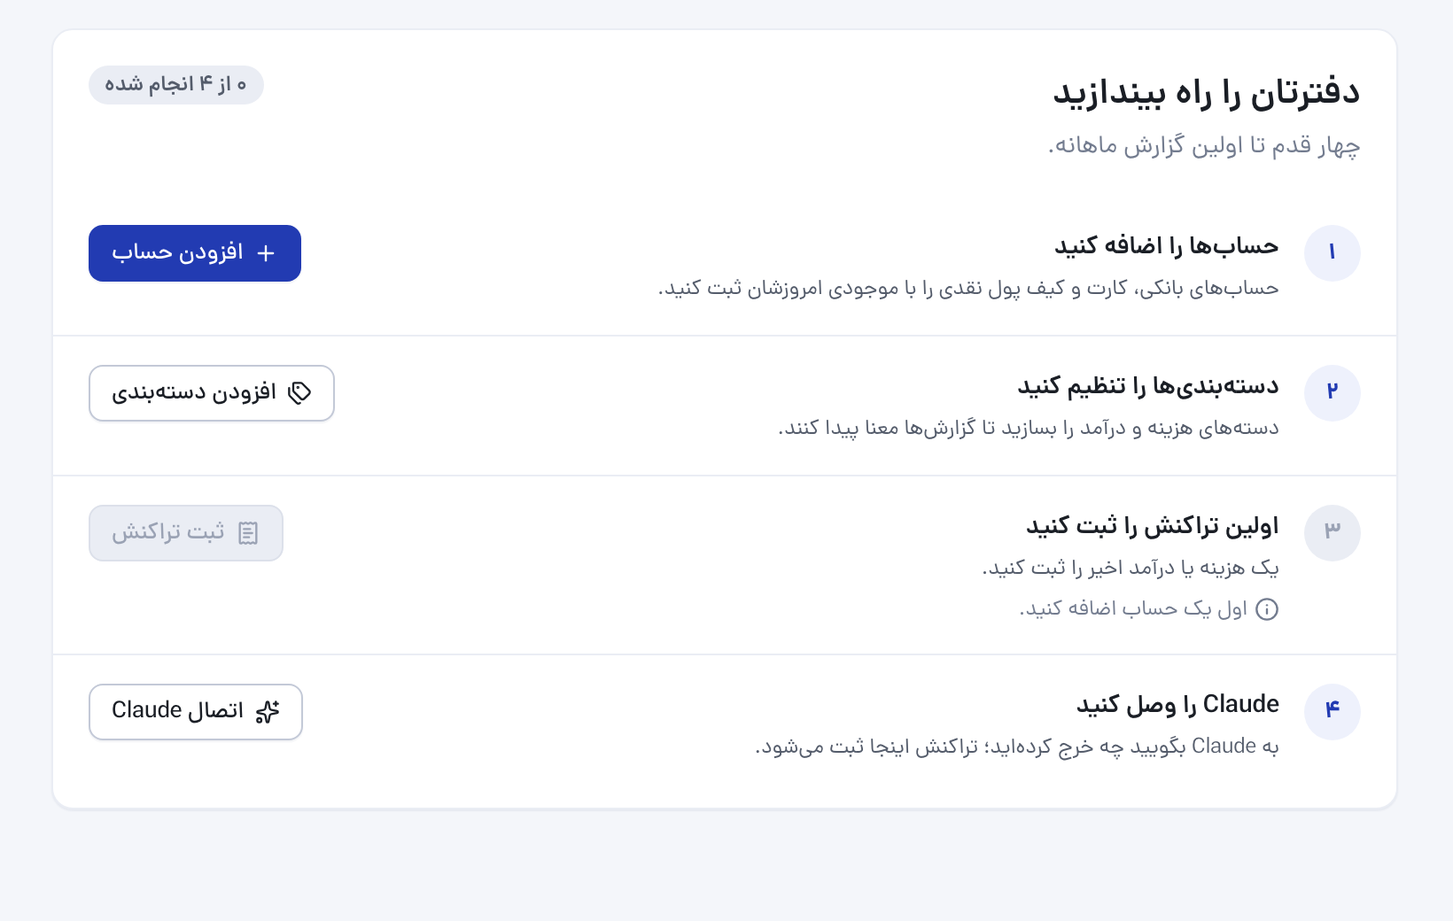
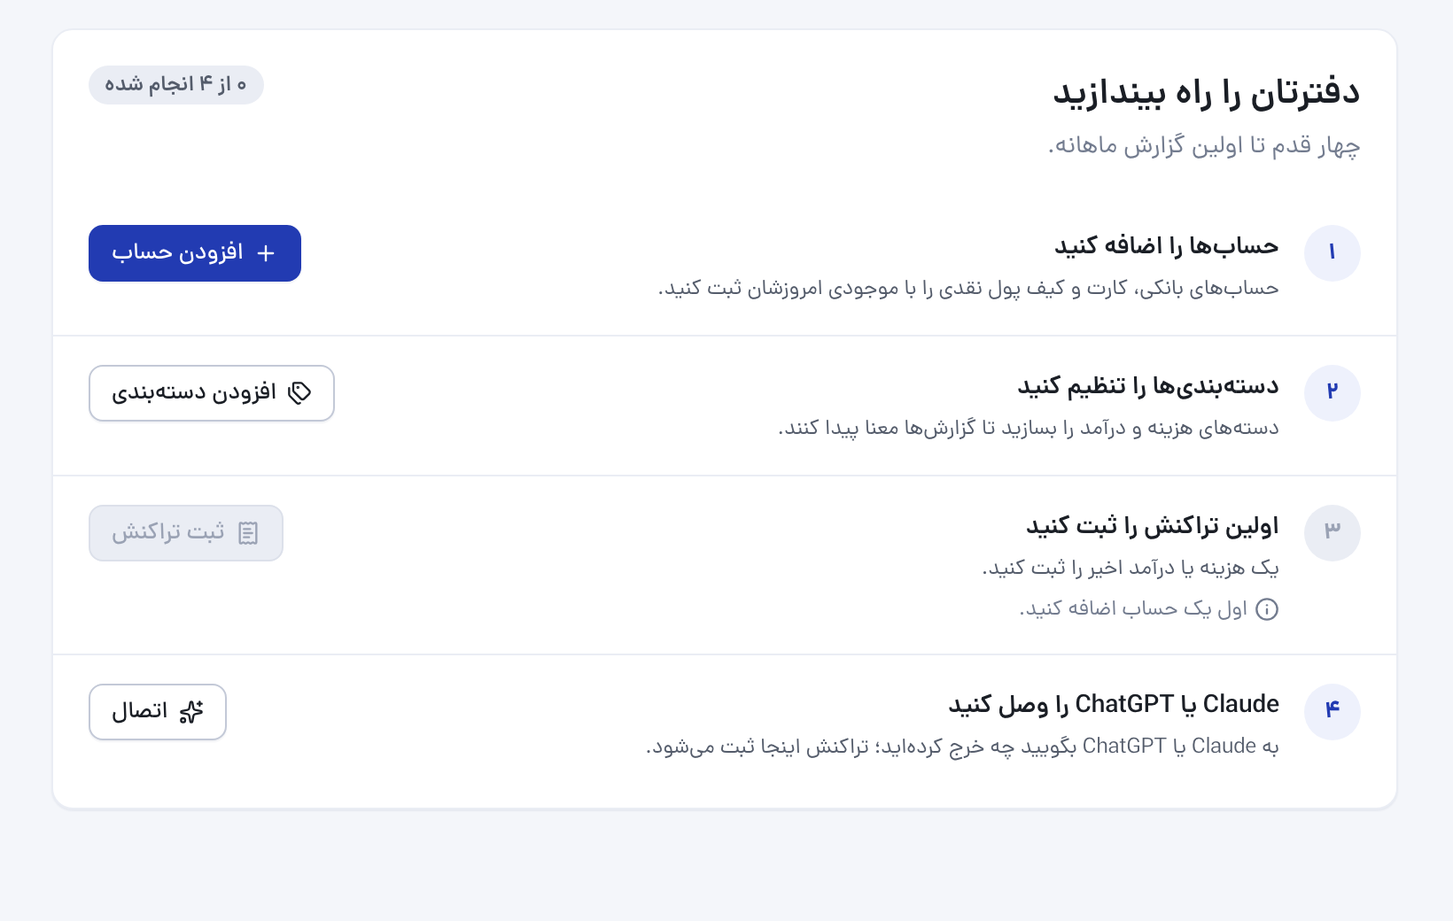
fix: name both Claude and ChatGPT in the connector copy
The Settings section that leads to the connector is now «دستیار هوش
مصنوعی» / "AI assistants" (settings.claude → settings.assistants). The
first-run step, the connector page's role line and examples title, the
consent page and the password texts name both assistants or the
connecting app, and the consent footer points at the page's real title.
User guide text and screenshots are updated.

Closes #136

Changed region(s): [[0.4354, 0.7385, 0.8085, 0.8308], [0.0622, 0.7385, 0.1866, 0.8]]

diff --git a/src/messages/fa.ts b/src/messages/fa.ts
@@ -271,11 +271,11 @@ const fa = {
           action: "ثبت تراکنش",
           needsAccount: "اول یک حساب اضافه کنید.",
         },
-        claude: {
-          title: "Claude را وصل کنید",
+        assistant: {
+          title: "Claude یا ChatGPT را وصل کنید",
           description:
-            "به Claude بگویید چه خرج کردهاید؛ تراکنش اینجا ثبت میشود.",
-          action: "اتصال Claude",
+            "به Claude یا ChatGPT بگویید چه خرج کردهاید؛ تراکنش اینجا ثبت میشود.",
+          action: "اتصال",
         },
       },
     },
@@ -779,7 +779,7 @@ const fa = {
     reset: {
       title: "بازنشانی رمز عبور؟",
       description:
-        "رمز فعلی {name} دیگر کار نمیکند، از همه دستگاهها خارج میشود، دسترسی برنامههای متصل مثل Claude به حسابش قطع میشود و یک رمز موقت تازه ساخته میشود.",
+        "رمز فعلی {name} دیگر کار نمیکند، از همه دستگاهها خارج میشود، دسترسی برنامههای متصل مثل Claude و ChatGPT به حسابش قطع میشود و یک رمز موقت تازه ساخته میشود.",
       submit: "بازنشانی رمز",
       shownTitle: "رمز موقت تازه",
       shownDescription: "این رمز را کپی کنید و به {name} بدهید.",
@@ -1034,11 +1034,11 @@ const fa = {
         "نشانی بالا را در Claude یا ChatGPT اضافه کنید تا اینجا نمایش داده شود.",
       role: {
         viewer:
-          "Claude با نقش شما (بیننده) کار میکند: فقط میتواند تراکنشها را بخواند.",
+          "دستیار با نقش شما (بیننده) کار میکند: فقط میتواند تراکنشها را بخواند.",
         editor:
-          "Claude با نقش شما (ویرایشگر) کار میکند: تراکنشها را میخواند، ثبت و ویرایش میکند و فقط وقتی بخواهید حذف میکند.",
+          "دستیار با نقش شما (ویرایشگر) کار میکند: تراکنشها را میخواند، ثبت و ویرایش میکند و فقط وقتی بخواهید حذف میکند.",
         admin:
-          "Claude با نقش شما (مدیر) کار میکند: تراکنشها را میخواند، ثبت و ویرایش میکند و فقط وقتی بخواهید حذف میکند.",
+          "دستیار با نقش شما (مدیر) کار میکند: تراکنشها را میخواند، ثبت و ویرایش میکند و فقط وقتی بخواهید حذف میکند.",
       },
     },
     revoke: {
@@ -1049,7 +1049,7 @@ const fa = {
       failed: "دسترسی قطع نشد. اتصال اینترنت را بررسی کنید و دوباره تلاش کنید.",
     },
     examples: {
-      title: "به Claude بگویید",
+      title: "به دستیار بگویید",
       subtitle: "چند نمونه برای شروع. به زبان خودتان بنویسید.",
       record: "ثبت",
       ask: "پرسیدن",
@@ -1072,16 +1072,16 @@ const fa = {
       read: "خواندن تراکنشها",
       readDescription: "برای پاسخ به پرسشهایی مثل «این ماه چقدر خرج کردم؟»",
       write: "ثبت و ویرایش تراکنشها",
-      writeDescription: "هر چه ثبت کند با نشان Claude در فهرست دیده میشود.",
+      writeDescription: "هر چه ثبت کند با نشان {client} در فهرست دیده میشود.",
       delete: "حذف تراکنش، وقتی خودتان بخواهید",
-      deleteDescription: "Claude بدون درخواست شما چیزی حذف نمیکند.",
+      deleteDescription: "{client} بدون درخواست شما چیزی حذف نمیکند.",
       viewerNote:
         "نقش شما «بیننده» است؛ {client} نمیتواند تراکنشی ثبت، ویرایش یا حذف کند.",
       redirect: "پس از پاسخ، به {host} برمیگردید.",
       deny: "رد کردن",
       allow: "اجازه دادن",
       footNote:
-        "هر وقت بخواهید، از تنظیمات ‹ اتصال به Claude دسترسی را قطع کنید.",
+        "هر وقت بخواهید، از تنظیمات ‹ اتصال به Claude و ChatGPT دسترسی را قطع کنید.",
       doneTitle: "دسترسی داده شد",
       doneDescription:
         "در حال بازگشت به {client}… اگر این پنجره بسته نشد، خودتان ببندید.",
@@ -1093,7 +1093,7 @@ const fa = {
         "پاسخ شما ثبت نشد. اتصال اینترنت را بررسی کنید و دوباره تلاش کنید.",
       invalidTitle: "این درخواست دیگر معتبر نیست",
       invalidDescription:
-        "درخواست اتصال منقضی شده یا ناقص است. از Claude دوباره «Connect» را بزنید.",
+        "درخواست اتصال منقضی شده یا ناقص است. از Claude یا ChatGPT دوباره وصل شوید.",
     },
   },
   importExport: {
@@ -1365,7 +1365,7 @@ const fa = {
     password: {
       title: "تغییر رمز عبور",
       subtitle:
-        "پس از تغییر، در دستگاههای دیگر دوباره وارد شوید و برنامههایی مثل Claude را دوباره متصل کنید.",
+        "پس از تغییر، در دستگاههای دیگر دوباره وارد شوید و برنامههایی مثل Claude و ChatGPT را دوباره متصل کنید.",
       current: "رمز فعلی",
       currentMissing: "رمز فعلی را وارد کنید.",
       currentWrong: "رمز فعلی درست نیست.",
@@ -1391,8 +1391,8 @@ const fa = {
       title: "دادههای دفتر",
       importExport: "دریافت تراکنشها در قالب CSV و افزودن از فایل",
     },
-    claude: {
-      title: "Claude",
+    assistants: {
+      title: "دستیار هوش مصنوعی",
       connector: "ثبت تراکنش و پرسش دربارهٔ خرجها با گفتوگو",
     },
     book: {

diff --git a/src/messages/en.ts b/src/messages/en.ts
@@ -277,10 +277,11 @@ const en: Messages = {
           action: "Add transaction",
           needsAccount: "Add an account first.",
         },
-        claude: {
-          title: "Connect Claude",
-          description: "Tell Claude what you spent and it’s recorded here.",
-          action: "Connect Claude",
+        assistant: {
+          title: "Connect Claude or ChatGPT",
+          description:
+            "Tell Claude or ChatGPT what you spent and it’s recorded here.",
+          action: "Connect",
         },
       },
     },
@@ -787,7 +788,7 @@ const en: Messages = {
     reset: {
       title: "Reset password?",
       description:
-        "{name}’s current password will stop working, they’ll be signed out everywhere, connected apps such as Claude will lose access to their account, and a new temporary password will be created.",
+        "{name}’s current password will stop working, they’ll be signed out everywhere, connected apps such as Claude or ChatGPT will lose access to their account, and a new temporary password will be created.",
       submit: "Reset password",
       shownTitle: "New temporary password",
       shownDescription: "Copy it and give it to {name}.",
@@ -1041,11 +1042,11 @@ const en: Messages = {
         "Add the URL above in Claude or ChatGPT and it will show up here.",
       role: {
         viewer:
-          "Claude works with your role (Viewer): it can only read transactions.",
+          "The assistant works with your role (Viewer): it can only read transactions.",
         editor:
-          "Claude works with your role (Editor): it reads, adds and edits transactions, and deletes only when you ask.",
+          "The assistant works with your role (Editor): it reads, adds and edits transactions, and deletes only when you ask.",
         admin:
-          "Claude works with your role (Admin): it reads, adds and edits transactions, and deletes only when you ask.",
+          "The assistant works with your role (Admin): it reads, adds and edits transactions, and deletes only when you ask.",
       },
     },
     revoke: {
@@ -1057,7 +1058,7 @@ const en: Messages = {
         "Couldn’t revoke access. Check your internet connection and try again.",
     },
     examples: {
-      title: "Things to say to Claude",
+      title: "Things to say",
       subtitle: "A few ideas to start. Write it your own way.",
       record: "Record",
       ask: "Ask",
@@ -1082,16 +1083,17 @@ const en: Messages = {
         "To answer questions like “How much did I spend this month?”",
       write: "Add and edit transactions",
       writeDescription:
-        "Everything it records shows a Claude badge in your lists.",
+        "Everything it records shows a {client} badge in your lists.",
       delete: "Delete transactions when you ask",
-      deleteDescription: "Claude never deletes anything without your request.",
+      deleteDescription:
+        "{client} never deletes anything without your request.",
       viewerNote:
         "Your role is Viewer, so {client} can’t add, edit or delete transactions.",
       redirect: "After you answer, you’ll return to {host}.",
       deny: "Deny",
       allow: "Allow",
       footNote:
-        "You can revoke access anytime in Settings › Connect to Claude.",
+        "You can revoke access anytime in Settings › Connect Claude and ChatGPT.",
       doneTitle: "Access allowed",
       doneDescription:
         "Returning to {client}… If this window doesn’t close, you can close it.",
@@ -1103,7 +1105,7 @@ const en: Messages = {
         "Your answer wasn’t saved. Check your internet connection and try again.",
       invalidTitle: "This request is no longer valid",
       invalidDescription:
-        "The connection request expired or is incomplete. Click “Connect” in Claude again.",
+        "The connection request expired or is incomplete. Connect again from Claude or ChatGPT.",
     },
   },
   importExport: {
@@ -1382,7 +1384,7 @@ const en: Messages = {
     password: {
       title: "Change password",
       subtitle:
-        "After changing it, sign in again on your other devices and connect apps such as Claude again.",
+        "After changing it, sign in again on your other devices and connect apps such as Claude or ChatGPT again.",
       current: "Current password",
       currentMissing: "Enter your current password.",
       currentWrong: "The current password is incorrect.",
@@ -1408,8 +1410,8 @@ const en: Messages = {
       title: "Book data",
       importExport: "Download transactions as CSV, or add them from a file",
     },
-    claude: {
-      title: "Claude",
+    assistants: {
+      title: "AI assistants",
       connector: "Record transactions and ask about spending by chatting",
     },
     book: {

diff --git a/src/components/settings-links/index.tsx b/src/components/settings-links/index.tsx
@@ -17,11 +17,11 @@ type SettingsLink = {
   icon: LucideIcon;
   /** Message keys of the link's title and description. */
   title: "importExport.title" | "connector.title";
-  description: "settings.data.importExport" | "settings.claude.connector";
+  description: "settings.data.importExport" | "settings.assistants.connector";
 };
 
 const SECTIONS: {
-  title: "settings.data.title" | "settings.claude.title";
+  title: "settings.data.title" | "settings.assistants.title";
   links: SettingsLink[];
 }[] = [
   {
@@ -36,20 +36,20 @@ const SECTIONS: {
     ],
   },
   {
-    title: "settings.claude.title",
+    title: "settings.assistants.title",
     links: [
       {
         href: "/settings/connector",
         icon: SparklesIcon,
         title: "connector.title",
-        description: "settings.claude.connector",
+        description: "settings.assistants.connector",
       },
     ],
   },
 ];
 
 /**
- * The /settings sections that lead to subpages: CSV import and export, and the Claude connector.
+ * The /settings sections that lead to subpages: CSV import and export, and the Claude and ChatGPT connector.
  */
 export function SettingsLinks() {
   const t = useTranslations();

diff --git a/src/components/first-run/index.tsx b/src/components/first-run/index.tsx
@@ -31,7 +31,7 @@ type FirstRunProps = {
   className?: string;
 };
 
-type StepKey = "accounts" | "categories" | "transaction" | "claude";
+type StepKey = "accounts" | "categories" | "transaction" | "assistant";
 
 type Step = {
   key: StepKey;
@@ -45,7 +45,7 @@ type Step = {
 
 /**
  * The dashboard of a book without accounts or transactions. Editors and admins get four
- * steps (accounts, categories, a first transaction, connecting Claude), each marked done once
+ * steps (accounts, categories, a first transaction, connecting Claude or ChatGPT), each marked done once
  * the book has it; the next open step is the primary button. Viewers can't set anything up,
  * so they get a note that the summary appears once someone records something.
  */
@@ -87,7 +87,7 @@ export function FirstRun({ canWrite, progress, className }: FirstRunProps) {
       blocked: !progress.hasAccounts,
     },
     {
-      key: "claude",
+      key: "assistant",
       done: progress.connectedClaude,
       icon: SparklesIcon,
       href: "/settings/connector",

diff --git a/src/components/connector-consent/index.tsx b/src/components/connector-consent/index.tsx
@@ -211,7 +211,7 @@ export function ConnectorConsent({
                     {t(`connector.consent.${key}`)}
                   </span>
                   <span className={styles.itemDescription}>
-                    {t(`connector.consent.${key}Description`)}
+                    {t(`connector.consent.${key}Description`, { client })}
                   </span>
                 </span>
               </li>

diff --git a/docs/development/features/dashboard.md b/docs/development/features/dashboard.md
@@ -26,7 +26,7 @@ The dashboard (`/`) is the home page: account balances, this month's totals, rec
 
 `/` (page in `src/app/(app)/(dashboard)/page.tsx`, in its own route group so its `loading.tsx` (`DashboardSkeleton`) covers only the dashboard; layout `Dashboard` in `src/components/dashboard`). Every role reads; the header greets by first name («سلام، سارا», `firstName` in `src/utils/text.ts`) with today's date, and writers get «افزودن تراکنش».
 
-- **First run:** the page first reads `getBookProgress(userId)` (`src/db/dashboard.ts`: whether the book has accounts, categories and transactions and whether this user has connected Claude, one statement). Until the book has accounts and transactions it shows `FirstRun` instead («خوش آمدید، …»): editors and admins get four steps (accounts → `/accounts`, categories → `/categories`, a first transaction through the add form, blocked until there is an account, Claude → `/settings/connector`), each marked done from the progress, the next open one primary; viewers get a short note.
+- **First run:** the page first reads `getBookProgress(userId)` (`src/db/dashboard.ts`: whether the book has accounts, categories and transactions and whether this user has connected Claude, one statement). Until the book has accounts and transactions it shows `FirstRun` instead («خوش آمدید، …»): editors and admins get four steps (accounts → `/accounts`, categories → `/categories`, a first transaction through the add form, blocked until there is an account, Claude or ChatGPT → `/settings/connector`), each marked done from the progress, the next open one primary; viewers get a short note.
 - **Sections stream:** after that every section is an async Server Component in the page file with its own `<Suspense>` and skeleton (`…Skeleton` from each component), so the queries run in parallel and a slow one holds up only its card. «This month» is the viewer's current month (`resolveBudgetMonth(null, …)`, a Gregorian range).
   - `UnknownNotice`: «۳ تراکنش ناشناس دارید» when the book has unknown transactions (`unknownTransactionSummary`: count and oldest date), linking to `/transactions?from=<oldest>&unknown=1` (`unknownTransactionsHref`). No fallback: it appears when it has something to say. It has a close button: closing saves what the notice said (`unknownNoticeKey`: the count and the newest unknown transaction's `created_at`) in the `money-unknown-closed` cookie on that device (`UNKNOWN_NOTICE_COOKIE`), and the server leaves the notice out while the cookie matches, so it never flashes; a new unknown transaction changes the key and the notice returns.
   - `BalanceOverview`: the royal card (the screen's one brand card) with the total of the active accounts and a tile per account (`listAccounts`), scrolling sideways, edge to edge on phones.

diff --git a/docs/development/architecture.md b/docs/development/architecture.md
@@ -170,7 +170,7 @@ Code is organised by what it does, and each layer only calls the ones below it:
 | `/settings`                                                                                     | Settings (تنظیمات): profile, password, language, calendar, rial or toman, theme; book currency (admins) |
 | `/accounts`                                                                                     | Accounts (viewers read only); `/settings/accounts` redirects here                                       |
 | `/categories`                                                                                   | Categories (viewers read only); `/settings/categories` redirects here                                   |
-| `/settings/connector`                                                                           | Claude connector: URL, steps, connected apps (revoke), examples                                         |
+| `/settings/connector`                                                                           | Claude and ChatGPT connector: URL, steps, connected apps (revoke), examples                             |
 | `/settings/import-export`                                                                       | CSV export (every role) and import (editors and admins)                                                 |
 | `/transactions/export`                                                                          | CSV export Route Handler (`?from=&to=&account=`)                                                        |
 | `/oauth/consent`                                                                                | OAuth consent for Claude (outside the app shell)                                                        |
@@ -274,7 +274,7 @@ src/
                         Category rows with subcategories, the category / subcategory form, the palette swatches,
                         the icon grid with its search, the suggestions
     archived-section/   «بایگانیشده (n)» toggle with the archived rows
-    settings-links/     The /settings sections that link to import and export and the Claude connector
+    settings-links/     The /settings sections that link to import and export and the Claude and ChatGPT connector
     settings/           The /settings sections: profile-settings/, password-settings/, display-settings/,
                         book-settings/ (admins), about-settings/ (version, update notice for admins)
     connector-settings/, connector-consent/   The /settings/connector page and the OAuth consent page

diff --git a/docs/development/features/connector.md b/docs/development/features/connector.md
@@ -1,6 +1,6 @@
 # Claude and ChatGPT connector (MCP)
 
-Money is also a remote MCP server: a user adds `https://<domain>/mcp` to Claude or ChatGPT, signs in to Money once and allows access, and the assistant can then read the book and (for editors and admins) add, change and delete transactions as that user. Money is its own OAuth 2.1 authorization server, so nothing is registered anywhere. The steps for users are on `/settings/connector`.
+Money is also a remote MCP server: a user adds `https://<domain>/mcp` to Claude or ChatGPT, signs in to Money once and allows access, and the assistant can then read the book and (for editors and admins) add, change and delete transactions as that user. Money is its own OAuth 2.1 authorization server, so nothing is registered anywhere. The steps for users are on `/settings/connector`, linked from the «دستیار هوش مصنوعی» / “AI assistants” section of `/settings`.
 
 [Architecture](../architecture.md) explains how the pieces fit together; [conventions](../conventions.md) the rules for writing code.
 

diff --git a/docs/user-guide.md b/docs/user-guide.md
@@ -61,7 +61,7 @@ A new book is empty, so the dashboard shows four steps to set it up. Each step i
 1. **Add your accounts:** the bank cards, accounts and cash you keep track of, each with today's balance.
 2. **Set up categories:** what your money comes from and goes to. Money suggests a ready-made set.
 3. **Record a first transaction.**
-4. **Connect Claude**, if you'd like to record transactions by chatting (see [Claude and ChatGPT](#claude-and-chatgpt)).
+4. **Connect Claude or ChatGPT**, if you'd like to record transactions by chatting (see [Claude and ChatGPT](#claude-and-chatgpt)).
 
 Before recording amounts, an admin can switch the book's currency from rial to dollar, euro or pound in [Settings](#settings). It can't change later.
 

diff --git a/docs/user-guide.fa.md b/docs/user-guide.fa.md
@@ -56,7 +56,7 @@
 
 ۳. **اولین تراکنش را ثبت کنید.**
 
-۴. **Claude را وصل کنید**، اگر میخواهید با گفتوگو تراکنش ثبت کنید (بخش Claude و ChatGPT را ببینید).
+۴. **Claude یا ChatGPT را وصل کنید**، اگر میخواهید با گفتوگو تراکنش ثبت کنید (بخش Claude و ChatGPT را ببینید).
 
 پیش از ثبت هر مبلغی، مدیر میتواند واحد پول دفتر را در تنظیمات از ریال به دلار، یورو یا پوند تغییر دهد. بعداً دیگر قابل تغییر نیست.
 
